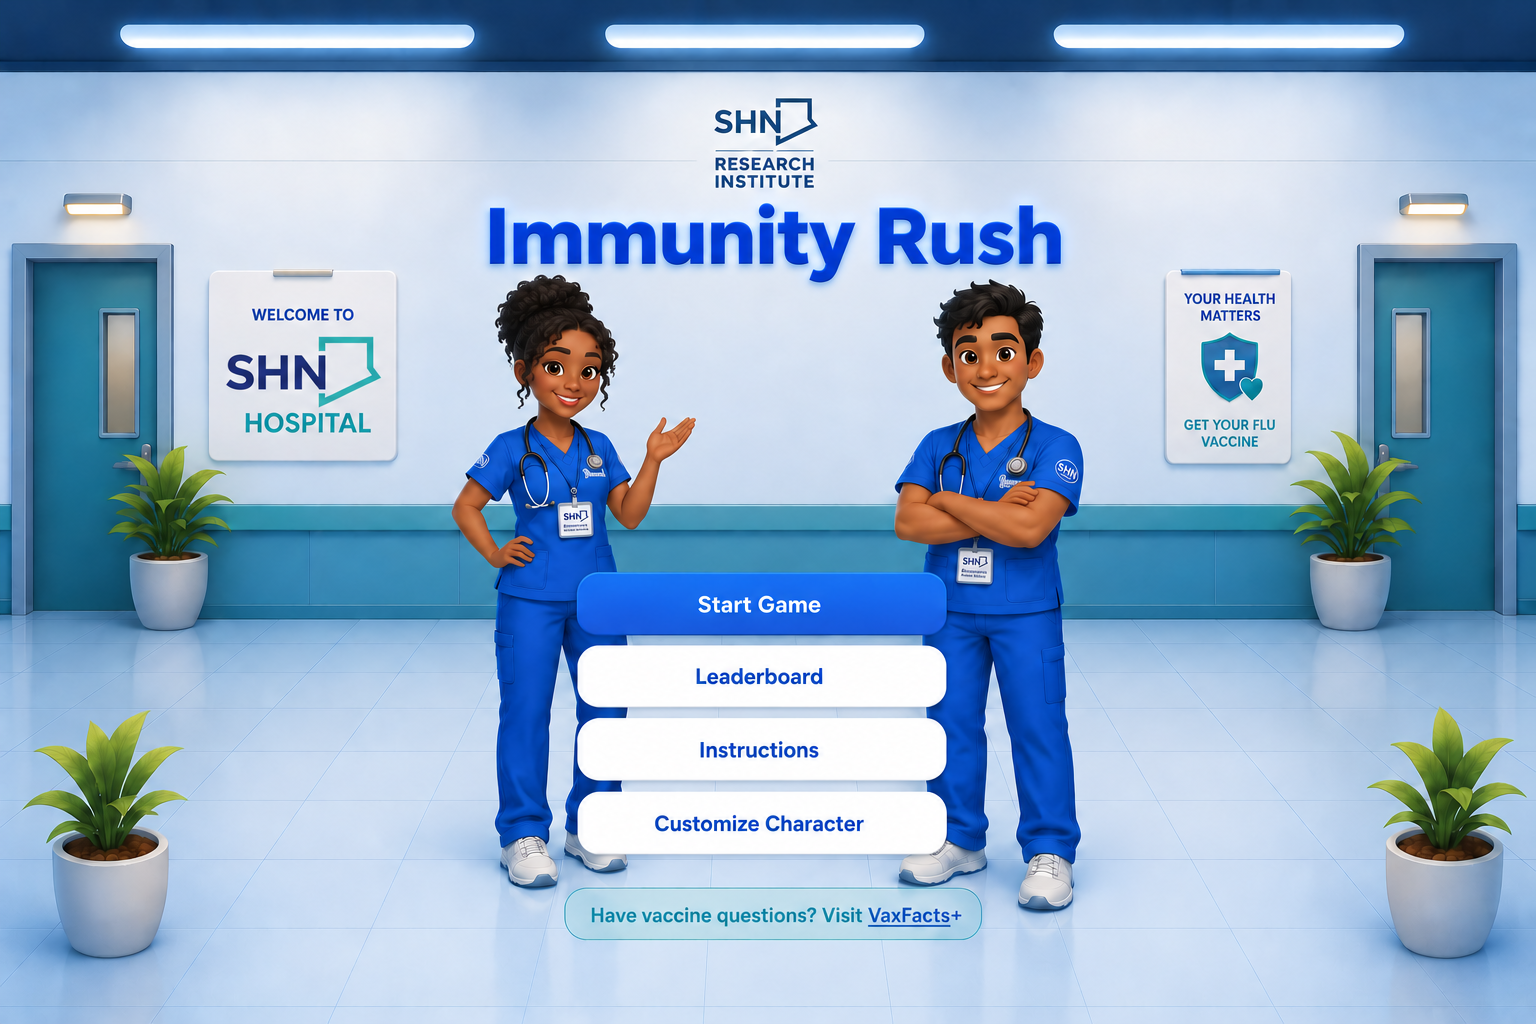
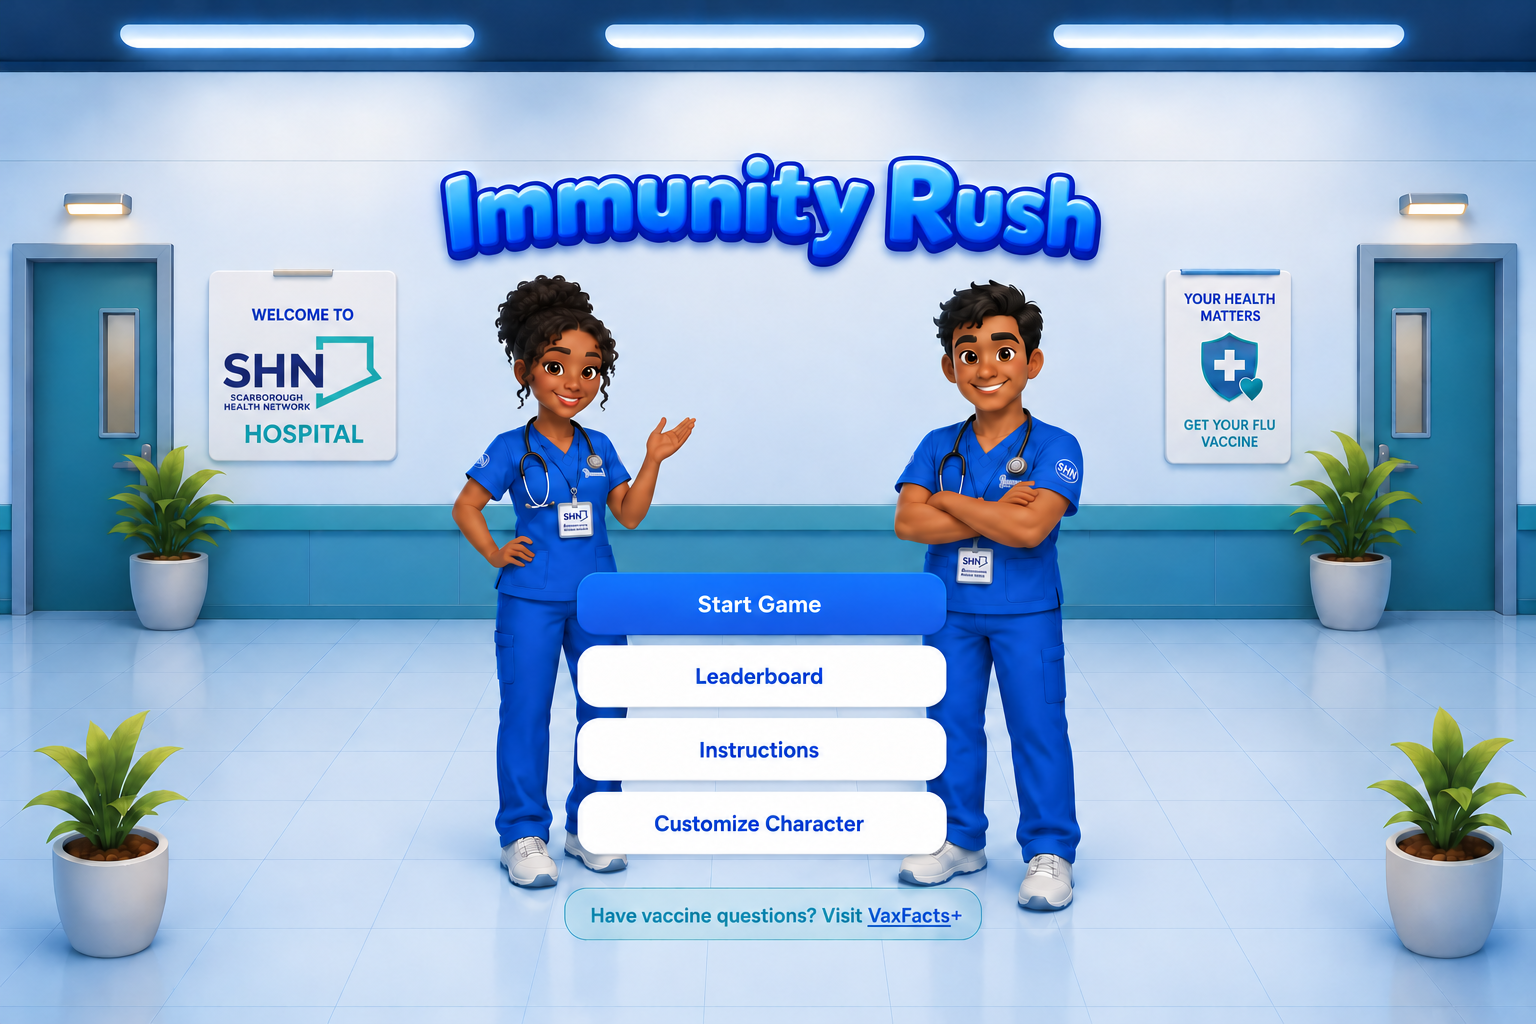
Swap in corrected home backdrop (home-bg.png v3)

diff --git a/index.html b/index.html
@@ -24,7 +24,7 @@
       href="https://fonts.googleapis.com/css2?family=Baloo+2:wght@600;700;800&display=swap"
       rel="stylesheet"
     />
-    <link rel="stylesheet" href="style.css?v=48" />
+    <link rel="stylesheet" href="style.css?v=49" />
   </head>
   <body>
     <!-- =========================================================
@@ -53,7 +53,7 @@
              clickable buttons laid on top of the drawn ones (same idea as the maze).
              The button positions are % of the image, so they scale with it. -->
         <div class="home-stage">
-          <img class="home-bg" src="assets/home/home-bg.png?v=2" alt="Immunity Rush — SHN" />
+          <img class="home-bg" src="assets/home/home-bg.png?v=3" alt="Immunity Rush — SHN" />
           <button
             class="home-hit"
             style="left: 37.3%; top: 55.8%; width: 24.4%; height: 6.6%"
@@ -508,7 +508,7 @@
     <!-- Collision map auto-generated from the maze artwork (see assets/maze/). -->
     <script src="assets/maze/wallmask.js"></script>
     <!-- Educational Flu Facts content + rotation logic (loaded before script.js). -->
-    <script src="fluFacts.js?v=48"></script>
-    <script src="script.js?v=48"></script>
+    <script src="fluFacts.js?v=49"></script>
+    <script src="script.js?v=49"></script>
   </body>
 </html>
